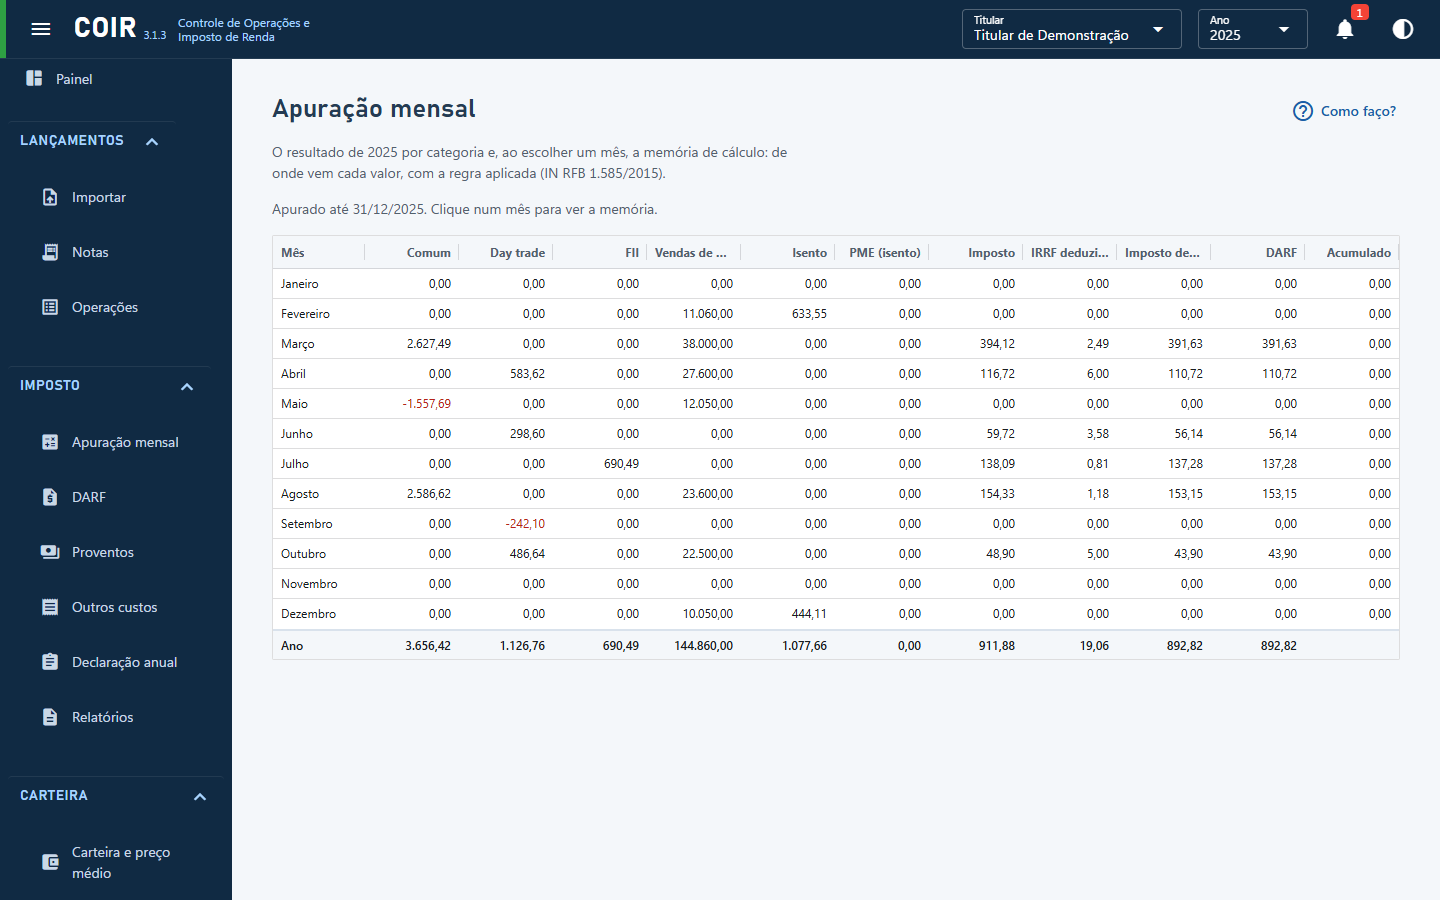
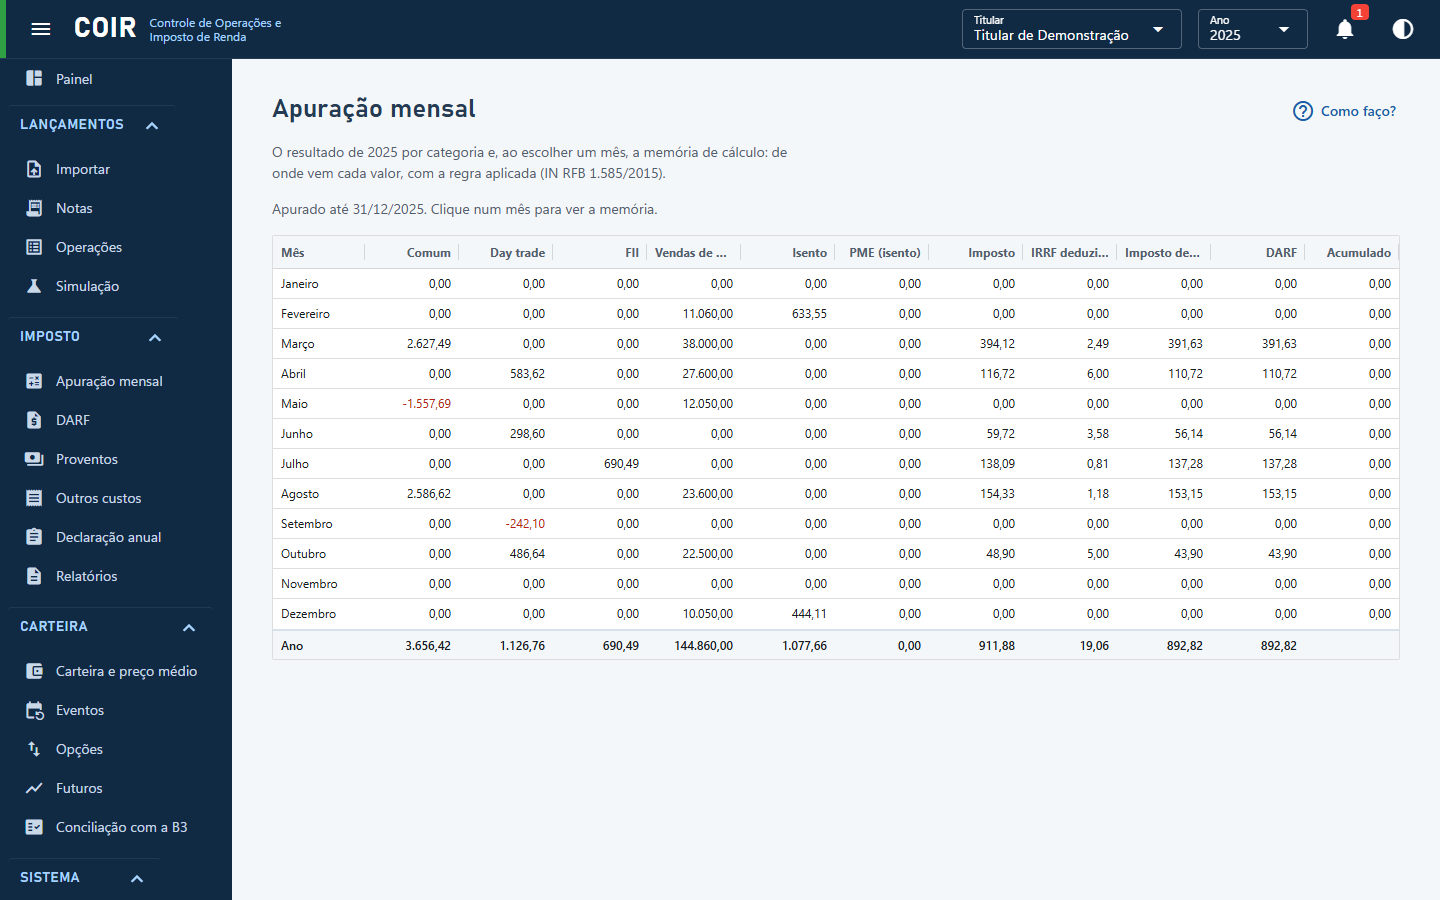
release: versão 3.1.4

diff --git a/index.html b/index.html
@@ -283,6 +283,7 @@ footer .wrap{display:flex;flex-wrap:wrap;gap:10px 40px;justify-content:space-bet
       <div><dt>Painel</dt><dd>A DARF da vez, as pendências de todos os anos e o resultado mês a mês.</dd></div>
       <div><dt>Importar</dt><dd>Notas em PDF (também com senha) e planilhas da B3, com conferência de cada nota.</dd></div>
       <div><dt>Notas e operações</dt><dd>A nota ao lado do original e o livro de operações com filtros.</dd></div>
+      <div><dt>Simulação</dt><dd>O efeito no imposto de vendas e compras antes de operar, sem gravar nada.</dd></div>
       <div><dt>Apuração mensal</dt><dd>Resultado por categoria e por ativo, com a memória de cálculo do mês.</dd></div>
       <div><dt>DARF</dt><dd>Vencimento em dia útil, multa e juros por atraso e o registro do pagamento.</dd></div>
       <div><dt>Proventos</dt><dd>Dividendos, JCP e reembolsos, com a data do crédito do JCP.</dd></div>

diff --git a/docs/manual/telas/simulacao.html b/docs/manual/telas/simulacao.html
@@ -34,6 +34,8 @@ footer{max-width:980px;margin:0 auto;padding:0 20px 40px;font-size:14px;color:#6
 <main>
 <h1 id="simulacao">Simulação</h1>
 
+<p><img src="../imagens/simulacao.png" alt="Simulação (banco de demonstração)" /></p>
+
 <p>Digite ordens de venda ou de compra à vista e veja o efeito delas no imposto de renda, antes de
 operar. O COIR apura as ordens com as mesmas regras da apuração mensal, sobre a carteira das
 notas já importadas, e mostra a diferença. <strong>Nada é gravado</strong>: a apuração, a DARF e a carteira não

diff --git a/novidades.html b/novidades.html
@@ -44,7 +44,7 @@ footer{max-width:980px;margin:0 auto;padding:0 20px 40px;font-size:14px;color:#6
 
 <p>O formato deste arquivo segue o <a href="https://keepachangelog.com/pt-BR/">Keep a Changelog</a>.</p>
 
-<h2 id="nao-lancado">[Não lançado]</h2>
+<h2 id="314-2026-11-18">[3.1.4] - 2026-11-18</h2>
 
 <h3 id="adicionado">Adicionado</h3>
 

diff --git a/tools/site/gerar_sites.py b/tools/site/gerar_sites.py
@@ -89,6 +89,7 @@ TELAS = [
         "Notas em PDF (também com senha) e planilhas da B3, com conferência de cada nota.",
     ),
     ("Notas e operações", "A nota ao lado do original e o livro de operações com filtros."),
+    ("Simulação", "O efeito no imposto de vendas e compras antes de operar, sem gravar nada."),
     ("Apuração mensal", "Resultado por categoria e por ativo, com a memória de cálculo do mês."),
     ("DARF", "Vencimento em dia útil, multa e juros por atraso e o registro do pagamento."),
     ("Proventos", "Dividendos, JCP e reembolsos, com a data do crédito do JCP."),

diff --git a/coir/__init__.py b/coir/__init__.py
@@ -1,3 +1,3 @@
 """COIR v3 — Controle de Operações e Imposto de Renda (B3)."""
 
-__version__ = "3.1.3"
+__version__ = "3.1.4"

diff --git a/CHANGELOG.md b/CHANGELOG.md
@@ -8,7 +8,7 @@ Este projeto segue o [Versionamento Semântico](https://semver.org/lang/pt-BR/) 
 
 O formato deste arquivo segue o [Keep a Changelog](https://keepachangelog.com/pt-BR/).
 
-## [Não lançado]
+## [3.1.4] - 2026-11-18
 
 ### Adicionado
 - **Tela Simulação**: digite ordens de venda ou de compra à vista (várias, com preços diferentes) e veja o efeito no imposto antes de operar. O COIR apura as ordens com as mesmas regras da apuração mensal, sobre a carteira das notas importadas, e mostra lado a lado: sem as ordens, cenário A e cenário B. Cada ordem tem uma data em cada cenário; sem data, fica fora dele (execução parcial), e datas em meses diferentes comparam vender de uma vez ou aos poucos. Aparecem o imposto e a DARF de cada mês, o ganho isento e o limite de R$ 20 mil (que, estourado, tira a isenção de todas as vendas de ações do mês), o prejuízo a compensar que sobra, a quantidade e o custo que ficam na carteira e a parte que vira day trade com compra do mesmo dia na mesma corretora. O IRRF que a corretora reteria aparece como estimativa, sem reduzir o imposto. Nada é gravado, e a tela não sugere operações.
@@ -367,6 +367,7 @@ Até 2.0.4 o repositório usava tags fora do padrão e sem Releases. Elas foram 
 
 Entre abril de 2025 e junho de 2026 houve atualizações sem tag (`xp_rico_clear.py`, `acoes.csv`, `opcoes.csv` e a planilha-modelo); elas estão incorporadas à 2.1.0.
 
+[3.1.4]: https://github.com/MarceloPCF/COIR/releases/tag/v3.1.4
 [3.1.3]: https://github.com/MarceloPCF/COIR/releases/tag/v3.1.3
 [3.1.2]: https://github.com/MarceloPCF/COIR/releases/tag/v3.1.2
 [3.1.1]: https://github.com/MarceloPCF/COIR/releases/tag/v3.1.1

diff --git a/docs/manual/telas/simulacao.md b/docs/manual/telas/simulacao.md
@@ -1,5 +1,7 @@
 # Simulação
 
+![Simulação (banco de demonstração)](../imagens/simulacao.png)
+
 Digite ordens de venda ou de compra à vista e veja o efeito delas no imposto de renda, antes de
 operar. O COIR apura as ordens com as mesmas regras da apuração mensal, sobre a carteira das
 notas já importadas, e mostra a diferença. **Nada é gravado**: a apuração, a DARF e a carteira não
